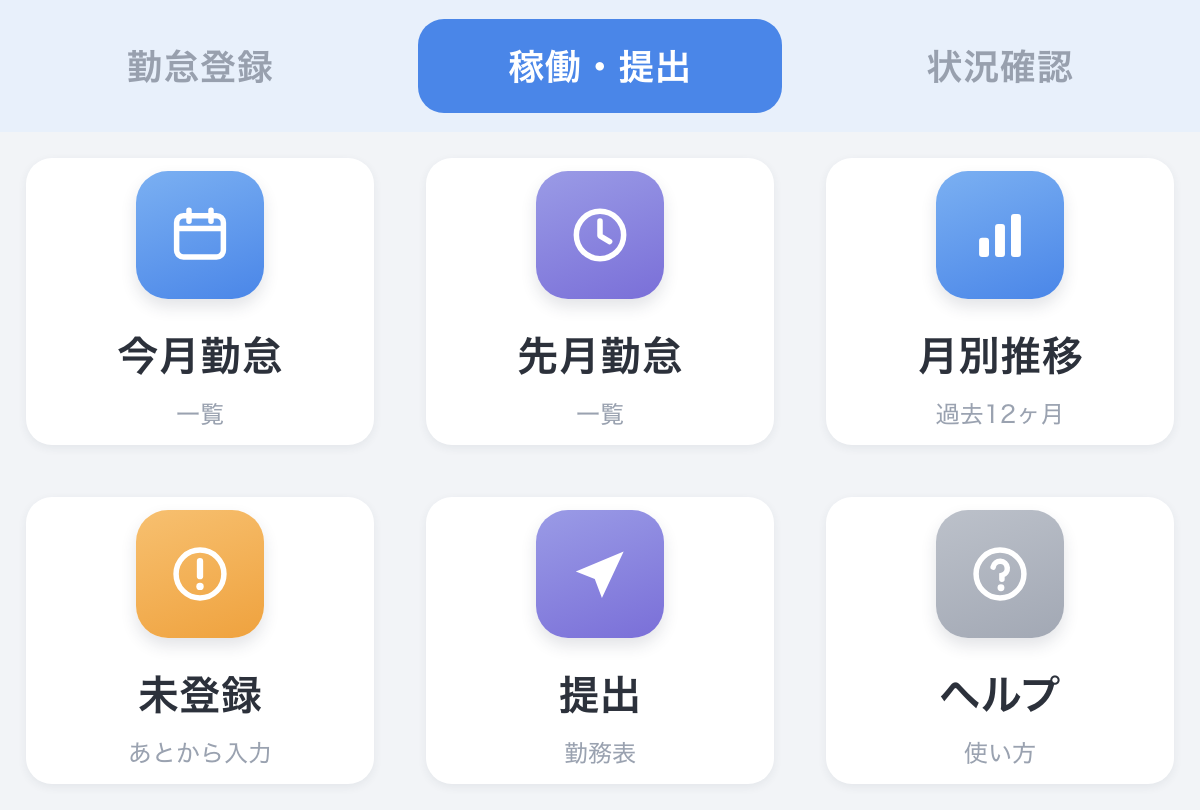
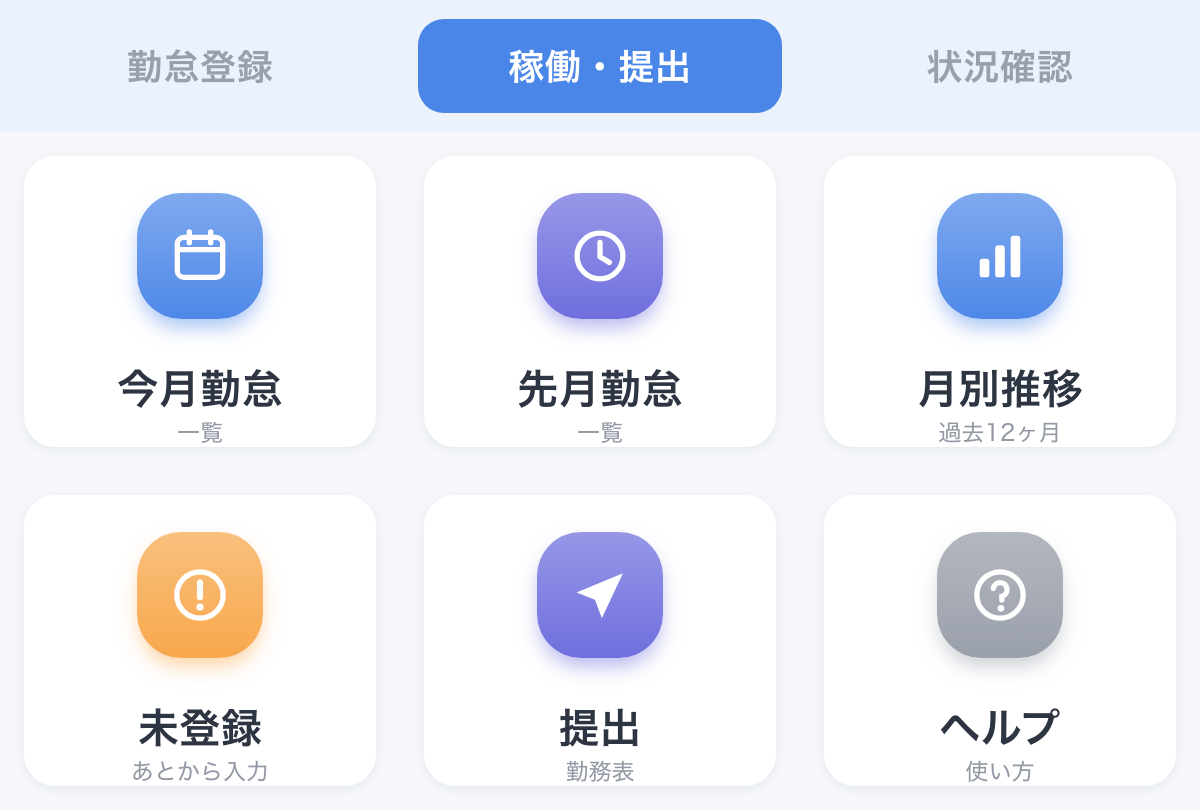
勤怠: リッチメニュー画像の生成をスクリプト化し、初代のデザインに合わせ直す
前回の画像は既存PNGを目視で再現したため、実測すると寸法・配色がずれていた。
初代の画像からピクセルを実測し、生成スクリプトに落とし込んだ。

ずれていた点:
- カード余白 26→24 / 角丸 27→31
- アイコン 128→126 / 角丸 31→44（辺長の35%。初代はかなり丸い）
- グラデーションの向きが斜め(160deg)→垂直(180deg)。左右で同値になることを確認
- グラデーションの各色（コントラストが浅く、全体に彩度が低かった）
- 影が無彩色→下端色を落とした色付きグロー
- 縦位置。初代は中央寄せではなく上端から37pxでアイコン、以降は固定間隔

以後の作り直しでずれが出ないよう、生成スクリプトと実測値のメモを残す。

  python3 scripts/build-richmenu-images.py [出力先]

diff --git a/scripts/build-richmenu-images.py b/scripts/build-richmenu-images.py
@@ -1,0 +1,160 @@
+#!/usr/bin/env python3
+"""line-attendance のリッチメニュー画像(1200x810 x3)を生成する。
+
+    python3 scripts/build-richmenu-images.py [出力先ディレクトリ]
+
+出力先を省略すると assets/ へ書き出す。メニューの枠を変更したら
+RichMenuSetup.js の areas と PAGES を合わせて更新すること。
+
+配色・寸法は既存画像から実測した値を使用している（scripts/richmenu-metrics.md 参照）。
+Chrome のヘッドレススクリーンショットで描画するため Google Chrome が必要。
+"""
+import subprocess
+import sys
+import tempfile
+from pathlib import Path
+
+ROOT = Path(__file__).resolve().parent.parent
+OUT = Path(sys.argv[1]) if len(sys.argv) > 1 else ROOT / 'assets'
+CHROME = '/Applications/Google Chrome.app/Contents/MacOS/Google Chrome'
+
+TABS = ['勤怠登録', '稼働・提出', '状況確認']
+
+# アイコン背景のグラデーション（上→下・垂直）
+G = {
+    'green':  ('#6BC894', '#32B36B'),
+    'orange': ('#F9C07E', '#F8A84C'),
+    'teal':   ('#66CBC7', '#2AB7B1'),
+    'blue':   ('#7FA9EE', '#4E88E8'),
+    'red':    ('#F297A2', '#EE6F7E'),
+    'purple': ('#9797E7', '#6F6FDE'),
+    'gray':   ('#B3B7BF', '#9AA0AB'),
+}
+
+CAL = ('<rect x="3.5" y="5" width="17" height="15" rx="2.5" stroke="#fff" stroke-width="2" fill="none"/>'
+       '<path d="M3.5 9.6h17" stroke="#fff" stroke-width="2"/>'
+       '<path d="M8 3v4M16 3v4" stroke="#fff" stroke-width="2" stroke-linecap="round"/>')
+
+ICON = {
+    'play':   '<path d="M8.5 5.5v13l11-6.5z" fill="#fff"/>',
+    'stop':   '<rect x="8" y="8" width="8" height="8" rx="2.2" fill="#fff"/>',
+    'umbrella': ('<path d="M12 3.2a8.4 8.4 0 0 1 8.4 8.4H3.6A8.4 8.4 0 0 1 12 3.2z" fill="#fff"/>'
+                 '<path d="M12 11.6v6.2a2.4 2.4 0 0 0 4.8 0" stroke="#fff" stroke-width="2" fill="none" stroke-linecap="round"/>'),
+    'calendar': CAL,
+    'calendar_x': CAL + '<path d="M9.6 13.2l4.8 4.2M14.4 13.2l-4.8 4.2" stroke="#fff" stroke-width="2" stroke-linecap="round"/>',
+    'calendar_plus': CAL + '<path d="M12 12.4v5.2M9.4 15h5.2" stroke="#fff" stroke-width="2" stroke-linecap="round"/>',
+    'calendar_week': CAL + '<rect x="6.2" y="12.4" width="11.6" height="3.6" rx="1.3" fill="#fff"/>',
+    'trash':  '<path d="M6 7h12M9.6 7V5.4h4.8V7M7.6 7l.85 12.6h7.1L16.4 7" stroke="#fff" stroke-width="2" fill="none" stroke-linecap="round" stroke-linejoin="round"/>',
+    'clock':  ('<circle cx="12" cy="12" r="8.6" stroke="#fff" stroke-width="2" fill="none"/>'
+               '<path d="M12 6.9v5.4l3.5 2.1" stroke="#fff" stroke-width="2" fill="none" stroke-linecap="round" stroke-linejoin="round"/>'),
+    'bars':   ('<rect x="4.4" y="13" width="3.6" height="7" rx="1.1" fill="#fff"/>'
+               '<rect x="10.2" y="8" width="3.6" height="12" rx="1.1" fill="#fff"/>'
+               '<rect x="16" y="4.4" width="3.6" height="15.6" rx="1.1" fill="#fff"/>'),
+    'alert':  ('<circle cx="12" cy="12" r="8.7" stroke="#fff" stroke-width="2" fill="none"/>'
+               '<path d="M12 7.3v5.5" stroke="#fff" stroke-width="2.3" stroke-linecap="round"/>'
+               '<circle cx="12" cy="16.5" r="1.35" fill="#fff"/>'),
+    'send':   '<path d="M20.6 3.8 3.2 11.1l6.9 2.7 2.6 6.9z" fill="#fff"/>',
+    'question': ('<circle cx="12" cy="12" r="8.7" stroke="#fff" stroke-width="2" fill="none"/>'
+                 '<path d="M9.5 9.5a2.6 2.6 0 1 1 3.2 3v1.4" stroke="#fff" stroke-width="2" fill="none" stroke-linecap="round"/>'
+                 '<circle cx="12.35" cy="17" r="1.25" fill="#fff"/>'),
+    'trend':  ('<path d="M4 16.6 9.6 11l3.4 3.4L20 7.4" stroke="#fff" stroke-width="2.4" fill="none" stroke-linecap="round" stroke-linejoin="round"/>'
+               '<path d="M15 7.4h5v5" stroke="#fff" stroke-width="2.4" fill="none" stroke-linecap="round" stroke-linejoin="round"/>'),
+    'doc_check': ('<path d="M6.2 3.6h7.3l5 5v11.8H6.2z" stroke="#fff" stroke-width="2" fill="none" stroke-linejoin="round"/>'
+                  '<path d="M9.1 13.6l2.3 2.3 4.1-4.3" stroke="#fff" stroke-width="2" fill="none" stroke-linecap="round" stroke-linejoin="round"/>'),
+    'open':   ('<path d="M13.8 4.4h5.8v5.8" stroke="#fff" stroke-width="2" fill="none" stroke-linecap="round" stroke-linejoin="round"/>'
+               '<path d="M19.6 4.4 11.2 12.8" stroke="#fff" stroke-width="2" stroke-linecap="round"/>'
+               '<path d="M16.8 14v4.4a1.6 1.6 0 0 1-1.6 1.6H5.6A1.6 1.6 0 0 1 4 18.4V8.8a1.6 1.6 0 0 1 1.6-1.6H10"'
+               ' stroke="#fff" stroke-width="2" fill="none" stroke-linecap="round" stroke-linejoin="round"/>'),
+}
+
+# 各ページ 6枠: (アイコン, 配色, タイトル, 説明) / None は空き枠
+PAGES = {
+    'a': [
+        ('play', 'green', '勤務開始', '今すぐ'),
+        ('stop', 'orange', '勤務終了', '今すぐ'),
+        ('umbrella', 'teal', '休暇', '当日'),
+        ('calendar', 'blue', '勤怠登録', '日付指定'),
+        ('calendar_x', 'teal', '休暇登録', '日付指定'),
+        ('trash', 'red', 'クリア', '日付指定'),
+    ],
+    'b': [
+        ('calendar', 'blue', '今月勤怠', '一覧'),
+        ('clock', 'purple', '先月勤怠', '一覧'),
+        ('bars', 'blue', '月別推移', '過去12ヶ月'),
+        ('alert', 'orange', '未登録', 'あとから入力'),
+        ('send', 'purple', '提出', '勤務表'),
+        ('question', 'gray', 'ヘルプ', '使い方'),
+    ],
+    'c': [
+        ('calendar_week', 'teal', '今週の状況', '稼働・残業'),
+        ('trend', 'purple', '着地見込み', '当月見込み'),
+        ('doc_check', 'teal', '提出状況', '提出済/未提出'),
+        ('open', 'blue', '勤務表を開く', 'シート'),
+        ('calendar_plus', 'green', '翌月作成', '勤務表'),
+        None,
+    ],
+}
+
+CSS = """
+*{margin:0;padding:0;box-sizing:border-box}
+body{width:1200px;height:810px;background:#F5F7FA;
+     font-family:"Hiragino Sans","Hiragino Kaku Gothic ProN",sans-serif;
+     -webkit-font-smoothing:antialiased;overflow:hidden}
+.tabs{height:132px;background:#ECF2FC;display:flex;align-items:center}
+.tab{flex:1;height:132px;display:flex;align-items:center;justify-content:center;
+     font-size:36px;font-weight:600;color:#98A0AE;letter-spacing:.02em}
+.tab .pill{width:364px;padding:20px 0;text-align:center;border-radius:26px}
+.tab.on .pill{background:#4A86E8;color:#fff}
+.grid{height:678px;display:grid;grid-template-columns:repeat(3,400px);grid-template-rows:339px 339px}
+.cell{padding:24px}
+.card{width:100%;height:100%;background:#fff;border-radius:31px;
+      box-shadow:0 3px 10px rgba(38,50,73,.07);
+      display:flex;flex-direction:column;align-items:center;padding-top:37px}
+.ico{width:126px;height:126px;border-radius:44px;margin-bottom:49px;
+     display:flex;align-items:center;justify-content:center}
+.ico svg{width:64px;height:64px}
+.t{font-size:41px;line-height:1;font-weight:600;color:#2D3442;letter-spacing:.01em}
+.s{font-size:23px;line-height:1;color:#9298A4;margin-top:12px}
+"""
+
+
+def build(page):
+    tabs = ''.join(
+        f'<div class="tab{" on" if i == "abc".index(page) else ""}"><div class="pill">{t}</div></div>'
+        for i, t in enumerate(TABS))
+    cells = []
+    for item in PAGES[page]:
+        if item is None:
+            cells.append('<div class="cell"></div>')
+            continue
+        icon, grad, title, sub = item
+        c1, c2 = G[grad]
+        # 影はアイコン下端の色を落としたグロー
+        cells.append(
+            f'<div class="cell"><div class="card">'
+            f'<div class="ico" style="background:linear-gradient(180deg,{c1},{c2});'
+            f'box-shadow:0 11px 20px -3px {c2}80">'
+            f'<svg viewBox="0 0 24 24">{ICON[icon]}</svg></div>'
+            f'<div class="t">{title}</div><div class="s">{sub}</div>'
+            f'</div></div>')
+    return (f'<!doctype html><html lang="ja"><head><meta charset="utf-8">'
+            f'<style>{CSS}</style></head><body>'
+            f'<div class="tabs">{tabs}</div><div class="grid">{"".join(cells)}</div>'
+            f'</body></html>')
+
+
+def main():
+    OUT.mkdir(parents=True, exist_ok=True)
+    with tempfile.TemporaryDirectory() as tmp:
+        for page in 'abc':
+            html = Path(tmp) / f'{page}.html'
+            html.write_text(build(page), encoding='utf-8')
+            png = OUT / f'line-attendance-richmenu-{page}.png'
+            subprocess.run([CHROME, '--headless', '--disable-gpu', '--hide-scrollbars',
+                            f'--screenshot={png}', '--window-size=1200,810', f'file://{html}'],
+                           check=True, stdout=subprocess.DEVNULL, stderr=subprocess.DEVNULL)
+            print(f'生成: {png}')
+
+
+if __name__ == '__main__':
+    main()

diff --git a/scripts/richmenu-metrics.md b/scripts/richmenu-metrics.md
@@ -1,0 +1,56 @@
+# リッチメニュー画像の実測値
+
+`build-richmenu-images.py` が使っている寸法・配色の根拠。初代の画像（手作業で作成）から
+ピクセルを実測して求めたもの。作り直しの際に見た目がずれないよう記録しておく。
+
+## キャンバス
+
+| 項目 | 値 |
+| --- | --- |
+| サイズ | 1200 × 810 |
+| 背景色 | `#F5F7FA` |
+| タブ帯 | 高さ 132px / `#ECF2FC` |
+| 選択中タブ | `#4A86E8` / 幅 364px / 角丸 26px |
+| ボタン領域 | 3列 × 2行、1マス 400 × 339 |
+
+## カード
+
+| 項目 | 値 |
+| --- | --- |
+| 余白 | マスの全周 24px（カード実寸 352 × 291） |
+| 角丸 | 31px |
+| 上端からアイコンまで | 37px |
+| タイトル | 41px / `#2D3442` / weight 600 |
+| 説明 | 23px / `#9298A4` |
+| アイコン下〜タイトル | 49px |
+| タイトル〜説明 | 12px |
+
+グリフの占める位置はマス基準で、タイトルが y=238〜273、説明が y=290〜309。
+
+## アイコン
+
+| 項目 | 値 |
+| --- | --- |
+| サイズ | 126 × 126 |
+| 角丸 | 44px（辺長の約35%。かなり丸い） |
+| グリフ | 64px・白 |
+| グラデーション | **垂直**（180deg）。斜めではない |
+| 影 | 下端色を落とした色付きグロー。`0 11px 20px -3px <下端色>80` |
+
+グラデーションは上端・下端から8px内側で採色した値。
+
+| 配色 | 上 | 下 |
+| --- | --- | --- |
+| green | `#6BC894` | `#32B36B` |
+| orange | `#F9C07E` | `#F8A84C` |
+| teal | `#66CBC7` | `#2AB7B1` |
+| blue | `#7FA9EE` | `#4E88E8` |
+| red | `#F297A2` | `#EE6F7E` |
+| purple | `#9797E7` | `#6F6FDE` |
+| gray | `#B3B7BF` | `#9AA0AB` |
+
+## 注意
+
+- 画像を差し替えたら Drive 上のファイル（`line-attendance-richmenu-{a,b,c}.png`）も
+  置き換えたうえで `SetupRichMenu` を実行すること。ファイル名で検索している。
+- 枠の増減は `RichMenuSetup.js` の `areas` と本スクリプトの `PAGES` の両方を直す。
